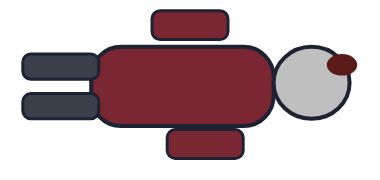
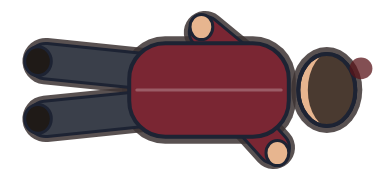
修正：屍體被地毯蓋住（平放物件畫的順序）；屍體改成粉筆輪廓＋常駐標籤；e2e 像素檢查屍體；手機提示卡不蓋 HUD；分局長畫面外標記不壓在他身上；總分上限 100；資產版本 v4

diff --git a/docs/app.js b/docs/app.js
@@ -1,7 +1,7 @@
 'use strict';
 /* 鑑識現場 — 前端（單機模式直接跑 engine.js；連線模式由伺服器權威） */
 let C = null; const GEN = window.FS_GEN, A = window.FS_ASSETS, ENG = window.FS;
-const VER = '3';
+const VER = '4';
 const $ = s => document.querySelector(s);
 const esc = s => String(s == null ? '' : s).replace(/[&<>"']/g, c => ({ '&': '&amp;', '<': '&lt;', '>': '&gt;', '"': '&quot;', "'": '&#39;' }[c]));
 const AGENT_COL = ['#2bb3a3', '#f2a541', '#8a6fd1', '#f2d045'];
@@ -379,17 +379,22 @@ function render(now) {
   ctx.setTransform(DPR, 0, 0, DPR, 0, 0); ctx.fillStyle = '#0b0f18'; ctx.fillRect(0, 0, VW, VH);
   if (!G.st || !C) return;
   const M = C.map; const hw = VW / 2 / Z, hh = VH / 2 / Z;
-  CAM.x = M.w < hw * 2 ? M.w / 2 : Math.max(hw - 40, Math.min(M.w - hw + 40, G.Me.x));
-  CAM.y = M.h < hh * 2 ? M.h / 2 + 60 : Math.max(hh + 100, Math.min(M.h - hh + 40, G.Me.y - 30));
+  CAM.x = M.w < hw * 2 ? M.w / 2 : Math.max(hw - 40, Math.min(M.w - hw + 40, G.camAt ? G.camAt.x : G.Me.x));
+  CAM.y = M.h < hh * 2 ? M.h / 2 + 60 : Math.max(hh + 100, Math.min(M.h - hh + 40, (G.camAt ? G.camAt.y : G.Me.y) - 30));
   const WT = [DPR * Z, 0, 0, DPR * Z, DPR * (VW / 2 - CAM.x * Z), DPR * (VH / 2 - CAM.y * Z)];
   ctx.setTransform(...WT);
   drawMap();
   // 屍體所在的房間：微微偏冷的紫紅色調（氣氛用，不洩漏答案）
   const br = roomOf(bodyRoom()); if (br) { ctx.fillStyle = 'rgba(70,20,70,.13)'; ctx.fillRect(br.x, br.y, br.w, br.h); }
   const near = G.nearId, lights = G.st.lights || {};
-  for (const o of C.objects) {
-    if (!o.flat || G.st.obj[o.id].gone) continue;
-    drawImg(o.img, o.x, o.y, o.w, o.h, { flat: true });
+  G.flatDrawn = [];
+  for (const o of ENG.flatOrder(C)) {
+    if (G.st.obj[o.id].gone || (o.id === 'body' && G.hideBody)) continue;
+    if (o.id === 'body') { // 屍體：先畫一圈淡淡的粉筆輪廓與陰影，讓它在任何地毯上都看得清楚
+      ctx.save(); ctx.fillStyle = 'rgba(10,12,20,.28)'; ctx.beginPath(); ctx.ellipse(o.x, o.y + 4, o.w * .56, o.h * .62, 0, 0, Math.PI * 2); ctx.fill();
+      ctx.setLineDash([9, 7]); ctx.strokeStyle = 'rgba(255,255,255,.85)'; ctx.lineWidth = 3; ctx.beginPath(); ctx.ellipse(o.x, o.y, o.w * .58, o.h * .66, 0, 0, Math.PI * 2); ctx.stroke(); ctx.restore();
+    }
+    drawImg(o.img, o.x, o.y, o.w, o.h, { flat: true }); G.flatDrawn.push(o.id);
   }
   const items = [];
   for (const o of C.objects) if (!o.flat && !G.st.obj[o.id].gone && !(o.id === 'chief' && G.st.boss && G.st.boss.mode !== 'away')) items.push({ kind: 'o', o, y: o.sw ? o.y - 60 : o.y });
@@ -477,6 +482,7 @@ function render(now) {
     ctx.fillStyle = '#1d2333'; ctx.font = 'bold 15px sans-serif'; ctx.textAlign = 'center'; ctx.textBaseline = 'middle'; ctx.fillText('!', o.x, yy + 1);
     if (a === 2 && !G.glinted.has(o.id) && Math.hypot(G.Me.x - o.x, G.Me.y - o.y) < 150) { G.glinted.add(o.id); Snd.glint(); }
   }
+  { const bo = ENG.objById(C, 'body'); if (bo && near !== 'body') label(bo.label || '屍體', bo.x, bo.y + bo.h / 2 + 18, '#ffd9d9'); }
   if (near && !near.startsWith('npc:') && near !== 'boss') { const o = ENG.objById(C, near); if (o) label(o.name, o.x, o.npc ? o.y - o.h - 12 : o.flat ? o.y + o.h / 2 + 16 : o.y + 18, '#bfefff'); }
   // 教學箭頭
   const tg = Tut.target(); if (tg) drawImg('ui_tut_arrow', tg.x, tg.y - 20 - Math.abs(Math.sin(t * 3)) * 12, 46, 46);
@@ -501,7 +507,7 @@ function render(now) {
   const B = G.st.boss; if (B && B.mode === 'in') marks.push([B.vx != null ? B.vx : B.x, B.vy != null ? B.vy : B.y, '👔', '#5a6a8a']);
   for (const n of G.st.npcs || []) if (n.mode === 'flee') marks.push([n.vx != null ? n.vx : n.x, n.vy != null ? n.vy : n.y, '🏃', '#b8574f']);
   if (tg) marks.push([tg.x, tg.y + 40, '⬇', '#1f8f82']);
-  for (const [x, y, ic, col] of marks) { let [px, py] = W2S(x, y - 40); if (px > 30 && px < VW - 30 && py > 60 && py < VH - 60) continue; px = Math.max(30, Math.min(VW - 30, px)); py = Math.max(90, Math.min(VH - 90, py)); ctx.globalAlpha = .85; ctx.fillStyle = col; ctx.beginPath(); ctx.arc(px, py, 19, 0, Math.PI * 2); ctx.fill(); ctx.globalAlpha = 1; ctx.font = '18px sans-serif'; ctx.textAlign = 'center'; ctx.textBaseline = 'middle'; ctx.fillText(ic, px, py + 1); }
+  for (const [x, y, ic, col] of marks) { let [px, py] = W2S(x, y - 40); const [fx, fy] = W2S(x, y), [hx, hy] = W2S(x, y - 130); if (fx > -20 && fx < VW + 20 && fy > -10 && hy < VH + 10) continue; px = Math.max(30, Math.min(VW - 30, px)); py = Math.max(90, Math.min(VH - 90, py)); ctx.globalAlpha = .85; ctx.fillStyle = col; ctx.beginPath(); ctx.arc(px, py, 19, 0, Math.PI * 2); ctx.fill(); ctx.globalAlpha = 1; ctx.font = '18px sans-serif'; ctx.textAlign = 'center'; ctx.textBaseline = 'middle'; ctx.fillText(ic, px, py + 1); }
 }
 // 分局長頭上的泡泡：要求圖示＋文字，下方一條慢慢變短的「耐心」條（不顯示秒數）
 function bossBubble(B, x, y, t) {
@@ -615,6 +621,17 @@ function enterGame(needGear) {
   closeOv(); refresh();
   if (G.st.phase === 'deduce') openDeduce(); else if (G.st.phase === 'result') openResult(); else if (needGear) openBriefing();
 }
+// 手機：結果卡／提示卡放在左上 HUD（和教學框）的下方，不要蓋住它們
+function layoutCards() {
+  const cards = $('#cards'); if (!cards) return;
+  const tut = $('#tut');
+  if (innerWidth > 640) { cards.style.top = ''; if (tut) tut.style.top = ''; return; }
+  const tl = document.querySelector('.tl'); if (tut && tl) tut.style.top = Math.round(tl.getBoundingClientRect().bottom + 6) + 'px';
+  let bottom = 0; for (const sel of ['.tl', '#tut']) { const e = document.querySelector(sel); if (e && e.offsetParent && !e.classList.contains('hidden')) bottom = Math.max(bottom, e.getBoundingClientRect().bottom); }
+  if (bottom) cards.style.top = Math.round(bottom + 8) + 'px';
+}
+setInterval(() => { try { layoutCards(); } catch (e) { } }, 250);
+addEventListener('resize', () => layoutCards());
 function refresh() {
   if (!G.st || !C) return;
   const p = meP(); if (!p) return;
@@ -833,7 +850,7 @@ function openDeduce() {
 }
 function openResult() {
   const R = G.st.result; if (!R) return;
-  const html = hdr('📁 結案報告', true) + `<div class="body res"><div class="rank">${R.rank}</div><p style="text-align:center;font-size:20px;margin:4px 0 12px">${R.total} 分</p>
+  const html = hdr('📁 結案報告', true) + `<div class="body res"><div class="rank">${R.rank}</div><p style="text-align:center;font-size:20px;margin:4px 0 12px">${R.total} / 100 分${R.bonus ? `<br><small style="color:var(--dim);font-size:13px">基本 ${R.base}＋獎勵 ${R.bonus}${R.pen ? ` ${R.pen}` : ''}${R.raw > 100 ? '（滿分 100）' : ''}</small>` : ''}</p>
     <table>${R.rows.map(r => `<tr><td>${r.label}</td><td class="${r.ok ? 'ok' : 'ng'}">${r.ok ? '✔' : '✖'} ${esc(r.pick)}${r.ok ? '' : `<br><small>正解：${esc(r.right)}</small>`}</td><td style="text-align:right">${r.pts}/${r.max}</td></tr>`).join('')}
     <tr><td>關鍵證據</td><td>${R.keys.map(k => `${esc(k.name)}（+${k.pts}）`).join('<br>') || '—'}</td><td style="text-align:right">${R.keyPts}/15</td></tr>
     ${R.timeB != null ? `<tr><td>結案速度</td><td>分局長耐心還剩 ${Math.round(G.st.patience)}%</td><td style="text-align:right">+${R.timeB || 0}/10</td></tr><tr><td>實驗室額度</td><td>花了 ${R.spent} 點（剩 ${G.st.budget}／${G.st.budgetMax}）</td><td style="text-align:right">+${R.budB || 0}/5</td></tr>` : ''}
@@ -1049,4 +1066,18 @@ const Tut = {
 };
 $('#tut').addEventListener('click', e => { if (e.target.closest('#tutSkip') && confirm('跳過新手教學？')) { Tut.stop(); backHome(); } if (e.target.closest('#tutHome')) { Tut.stop(); closeOv(); backHome(); } });
 loadAssets().then(() => { initHome(); requestAnimationFrame(loop); if (/autosolo/.test(location.hash)) startSolo(false); if (/tutorial/.test(location.hash)) Tut.start(); });
-window.__fs = { G, get C() { return C; }, ENG, doAct, openVan, openNote, openDeduce, refresh, Tut };
+// 測試用：屍體有沒有真的畫在畫面上（畫的順序＋實際像素：有屍體 vs 暫時拿掉屍體，畫面要明顯不同）
+async function bodyCheck() {
+  const o = ENG.objById(C, 'body'), fd = G.flatDrawn || [], i = fd.indexOf('body');
+  const covers = ENG.flatOrder(C).filter(q => q.id !== 'body' && q.w * q.h >= 15000 && Math.abs(q.x - o.x) < (q.w + o.w) / 2 && Math.abs(q.y - o.y) < (q.h + o.h) / 2).map(q => q.id);
+  const drawnOnTop = i >= 0 && covers.every(id => fd.indexOf(id) < i);
+  const frame = () => new Promise(r => requestAnimationFrame(() => requestAnimationFrame(r)));
+  const grab = () => { const [x0, y0] = W2S(o.x - o.w * .35, o.y - o.h * .25), [x1, y1] = W2S(o.x + o.w * .35, o.y + o.h * .25), k = cv.width / VW;
+    const sx = Math.max(0, Math.round(x0 * k)), sy = Math.max(0, Math.round(y0 * k)), sw = Math.min(Math.round((x1 - x0) * k), cv.width - sx), sh = Math.min(Math.round((y1 - y0) * k), cv.height - sy);
+    return sw > 0 && sh > 0 ? ctx.getImageData(sx, sy, sw, sh).data : null; };
+  await frame(); const A = grab(); if (!A) return { drawnOnTop, covers, onScreen: false, ratio: 0 };
+  G.hideBody = true; await frame(); const B = grab(); G.hideBody = false; await frame();
+  let diff = 0; for (let j = 0; j < A.length; j += 4) if (Math.abs(A[j] - B[j]) + Math.abs(A[j + 1] - B[j + 1]) + Math.abs(A[j + 2] - B[j + 2]) > 45) diff++;
+  return { drawnOnTop, covers, onScreen: true, ratio: +(diff / (A.length / 4)).toFixed(3) };
+}
+window.__fs = { G, get C() { return C; }, ENG, doAct, openVan, openNote, openDeduce, refresh, Tut, bodyCheck };

diff --git a/test/e2e.js b/test/e2e.js
@@ -22,6 +22,16 @@ async function closeWin(pg) { await pg.evaluate(() => { const b = document.query
 const tutStep = pg => pg.evaluate(() => __fs.G.tut ? __fs.G.tut.i : -1);
 async function waitStep(pg, n, ms = 8000) { const t0 = Date.now(); while (Date.now() - t0 < ms) { if ((await tutStep(pg)) >= n) return; await sleep(150); } throw new Error(`教學卡在第 ${await tutStep(pg)} 步（要到 ${n}）`); }
 const errors = [];
+// 屍體一定要真的畫在畫面上：畫的順序在地毯之後，而且畫面上那一塊有屍體的顏色
+async function checkBody(pg, tag, file) {
+  const o = await pg.evaluate(() => { const o = __fs.ENG.objById(__fs.C, 'body'); return { x: o.x, y: o.y, w: o.w, h: o.h }; });
+  let spot = null; for (const [dx, dy] of [[0, 140], [0, -130], [-220, 60], [220, 60], [0, 180], [-260, 0], [260, 0]]) if (await pg.evaluate(([x, y]) => __fs.ENG.walkable(__fs.C, x, y), [o.x + dx, o.y + dy])) { spot = [o.x + dx, o.y + dy]; break; }
+  if (spot) await tp(pg, spot[0], spot[1]); await sleep(600);
+  const r = await pg.evaluate(() => __fs.bodyCheck());
+  console.log(`屍體檢查［${tag}］：`, JSON.stringify(r));
+  if (!(r.drawnOnTop && r.onScreen && r.ratio > 0.3)) errors.push(`屍體沒有畫出來［${tag}］：${JSON.stringify(r)}`);
+  if (file) { await pg.screenshot({ path: '/workspace/' + file }); shots.push('/workspace/' + file); }
+}
 async function page(browser, opts) { const ctx = await browser.newContext(opts); const pg = await ctx.newPage(); pg.on('pageerror', e => errors.push(e.message)); pg.on('console', m => { if (m.type() === 'error' && !/ERR_|404|WebSocket/.test(m.text())) errors.push(m.text()); }); pg.on('dialog', d => d.accept()); return pg; }
 async function chase(pg, find, ms = 15000) { // 追上某個移動中的人（員警／分局長）
   const t0 = Date.now(); while (Date.now() - t0 < ms) { const p = await pg.evaluate(find); if (p) await tp(pg, p.x, p.y + 6); else await sleep(200); if (await pg.evaluate(() => 0)) break; await sleep(150); if (!(await pg.evaluate(find))) return true; } return false;
@@ -50,6 +60,7 @@ async function deduceAndSubmit(pg, name) {
   for (const t of ['camera', 'luminol', 'prints']) await tg.click(`[data-tool="${t}"]`);
   await shot(tg, 'tut_3_gear');
   await tg.click('#gearOk'); await waitStep(tg, 3); await closeWin(tg);
+  await checkBody(tg, '教學・桌機', 'forensic_v3_body_tutorial.png');
   await toObj(tg, 'body'); await shot(tg, 'tut_4_highlight'); await act(tg, '近拍傷口'); await waitStep(tg, 4); await sleep(300);
   await shot(tg, 'tut_5_result_card');
   await toObj(tg, 'floor_living'); await act(tg, '噴灑魯米諾'); await waitStep(tg, 5);
@@ -118,6 +129,13 @@ async function deduceAndSubmit(pg, name) {
   await pg.click('#bClose'); await sleep(800); await deduceAndSubmit(pg, null);
   await shot(pg, 'result');
   const res = await pg.evaluate(() => __fs.G.st.result); console.log('正式案件：', res.rank, res.total, 'time+', res.timeB, 'budget+', res.budB);
+  /* ---------- 2b. 屍體在每個可能的房間都看得到（客廳／書房＝偽裝意外移屍／廚房） ---------- */
+  for (const [seed, room] of [[1, '客廳'], [4, '書房（偽裝意外）'], [5, '廚房']]) {
+    const bp = await page(br, { viewport: { width: 1280, height: 800 } });
+    await bp.goto(BASE + '?seed=' + seed); await sleep(900); await bp.fill('#name', '百九'); await bp.click('#bSolo'); await sleep(700); await bp.click('#win footer [data-close]').catch(() => { }); await sleep(300);
+    await checkBody(bp, '正式案件・' + room, seed === 4 ? 'forensic_v3_body_case.png' : `forensic_v3_body_case_seed${seed}.png`);
+    await bp.context().close();
+  }
   /* ---------- 3. 連線：燈的開關同步 ---------- */
   const p1 = await page(br, { viewport: { width: 1280, height: 800 } }), p2 = await page(br, { viewport: { width: 1280, height: 800 } });
   await p1.goto(BASE); await sleep(800); await p1.fill('#name', '百九'); await p1.click('#bCreate');
@@ -127,6 +145,13 @@ async function deduceAndSubmit(pg, name) {
   await shot(p1, 'room');
   await p1.click('#rmStart'); await sleep(1500);
   for (const p of [p1, p2]) await p.click('#win footer [data-close]').catch(() => { });
+  { const o = await p2.evaluate(() => { const o = __fs.ENG.objById(__fs.C, 'body'); return { x: o.x, y: o.y }; }); await p2.evaluate(() => { __fs.G.Me.x = 400; __fs.G.Me.y = 700; }); await sleep(300); }
+  { // 連線時鏡頭跟著自己，直接看屍體那一塊：先把鏡頭（本機畫面）移過去檢查像素
+    const r = await p1.evaluate(async () => { const o = __fs.ENG.objById(__fs.C, 'body'); const G = __fs.G; G.camAt = { x: o.x, y: o.y + 60 }; await new Promise(r => setTimeout(r, 700)); const res = __fs.bodyCheck(); return res; });
+    await p1.screenshot({ path: '/workspace/forensic_v3_body_online.png' }); shots.push('/workspace/forensic_v3_body_online.png'); await p1.evaluate(() => { __fs.G.camAt = null; });
+    console.log('屍體檢查［連線］：', JSON.stringify(r)); if (!(r.drawnOnTop && r.onScreen && r.ratio > 0.3)) errors.push('連線時屍體沒有畫出來：' + JSON.stringify(r));
+    await sleep(800);
+  }
   for (const [x, y] of [[400, 690], [440, 640], [480, 610], [540, 600], [600, 590], [660, 590], [700, 580], [740, 540], [760, 500], [760, 480]]) { await p2.evaluate(([x, y]) => { const G = __fs.G; G.Me.x = x; G.Me.y = y; G.path = null; }, [x, y]); await sleep(170); }
   for (const [x, y] of [[400, 700], [440, 650], [480, 620], [540, 610], [600, 610], [640, 640]]) { await p1.evaluate(([x, y]) => { const G = __fs.G; G.Me.x = x; G.Me.y = y; G.path = null; }, [x, y]); await sleep(170); }
   await sleep(400); await p2.evaluate(() => __fs.doAct({ type: 'light', obj: 'sw_living' })); await sleep(900);
@@ -142,6 +167,7 @@ async function deduceAndSubmit(pg, name) {
   await ip.tap('#bTut'); await sleep(900); await shot(ip, 'iphone_tutorial');
   await tp(ip, 470, 600); await waitStep(ip, 1); await ip.evaluate(() => __fs.openVan()); await waitStep(ip, 2);
   for (const t of ['camera', 'luminol', 'prints']) await ip.tap(`[data-tool="${t}"]`); await ip.tap('#gearOk'); await waitStep(ip, 3); await closeWin(ip);
+  await checkBody(ip, '教學・iPhone', 'forensic_v3_iphone_body.png');
   await toObj(ip, 'body'); await act(ip, '近拍傷口'); await sleep(300); await shot(ip, 'iphone_result_card');
   await toObj(ip, 'floor_living'); await act(ip, '噴灑魯米諾'); await toObj(ip, 'sw_living'); await ip.tap('#act [data-k="light"]'); await sleep(500); await toObj(ip, 'floor_living'); await sleep(300);
   await shot(ip, 'dark_6_iphone');

diff --git a/docs/assets.js b/docs/assets.js
@@ -291,7 +291,25 @@ const D = {
   prop_coffee_table: (c, w, h) => { shadowE(c, w, h, .46); box(c, w * .04, h * .1, w * .92, h * .6, h * .3, '#6b4426'); rr(c, w * .1, h * .66, w * .06, h * .28, 3, '#4a2e18', K.ink, 3); rr(c, w * .84, h * .66, w * .06, h * .28, 3, '#4a2e18', K.ink, 3); },
   prop_wine_glasses: (c, w, h) => { for (const x of [.3, .7]) { pg(c, [[w * (x - .16), h * .1], [w * (x + .16), h * .1], [w * (x + .1), h * .48], [w * (x - .1), h * .48]], 'rgba(220,235,245,.8)', K.ink, 3); c.fillStyle = '#7a1424'; c.fillRect(w * (x - .1), h * .34, w * .2, h * .12); c.fillStyle = K.ink; c.fillRect(w * x - 2, h * .48, 4, h * .32); el(c, w * x, h * .84, w * .14, h * .05, '#dfe8ef', K.ink, 2); } },
   prop_wine_bottle: (c, w, h) => { rr(c, w * .38, h * .02, w * .24, h * .3, 4, '#2c4a2a', K.ink, 3); rr(c, w * .12, h * .28, w * .76, h * .68, 12, '#24402a', K.ink, 3); rr(c, w * .2, h * .5, w * .6, h * .22, 3, '#efe6d2'); },
-  prop_body: (c, w, h) => { c.setLineDash([10, 8]); rr(c, 6, 6, w - 12, h - 12, 40, null, 'rgba(255,255,255,.7)', 4); c.setLineDash([]); rr(c, w * .24, h * .26, w * .48, h * .44, 30, '#7a2633', K.ink, 4); el(c, w * .82, h * .46, w * .1, h * .2, '#bfbfbf', K.ink, 4); rr(c, w * .06, h * .3, w * .2, h * .14, 8, '#3a3f4a', K.ink, 3); rr(c, w * .06, h * .52, w * .2, h * .14, 8, '#3a3f4a', K.ink, 3); rr(c, w * .4, h * .06, w * .2, h * .16, 8, '#7a2633', K.ink, 3); rr(c, w * .44, h * .72, w * .2, h * .16, 8, '#7a2633', K.ink, 3); el(c, w * .9, h * .36, w * .04, h * .06, '#5a1a1a'); },
+  prop_body: (c, w, h) => { // 俯視：死者趴在地上（頭朝右），外面一圈白色粉筆輪廓；卡通、不血腥
+    const X = v => v * w, Y = v => v * h, ch = 'rgba(255,255,255,.95)';
+    const limb = (x1, y1, x2, y2, t, col) => { c.lineCap = 'round'; c.strokeStyle = K.ink; c.lineWidth = Y(t) + 6; c.beginPath(); c.moveTo(X(x1), Y(y1)); c.lineTo(X(x2), Y(y2)); c.stroke(); c.strokeStyle = col; c.lineWidth = Y(t); c.stroke(); };
+    // 粉筆輪廓：身體外擴一圈的白色剪影（半透明），再加一圈虛線
+    const halo = (pad, col) => { c.lineCap = 'round'; c.strokeStyle = col; c.fillStyle = col;
+      for (const [x1, y1, x2, y2, t] of [[.12, .34, .4, .4, .18], [.12, .66, .4, .6, .18], [.62, .32, .54, .18, .16], [.66, .68, .72, .82, .16]]) { c.lineWidth = Y(t) + pad * 2; c.beginPath(); c.moveTo(X(x1), Y(y1)); c.lineTo(X(x2), Y(y2)); c.stroke(); }
+      rr(c, X(.34) - pad, Y(.24) - pad, X(.42) + pad * 2, Y(.52) + pad * 2, Y(.2) + pad, col); el(c, X(.86), Y(.5), X(.075) + pad, Y(.2) + pad, col); };
+    halo(12, 'rgba(255,255,255,.92)'); halo(7, 'rgba(60,50,50,.85)');
+    // 身體
+    limb(.12, .34, .4, .4, .18, '#3a3f4a'); limb(.12, .66, .4, .6, .18, '#3a3f4a');           // 雙腿（深色長褲）
+    el(c, X(.1), Y(.34), X(.035), Y(.08), '#1f1a17', K.ink, 3); el(c, X(.1), Y(.66), X(.035), Y(.08), '#1f1a17', K.ink, 3); // 鞋
+    limb(.62, .32, .54, .18, .16, '#7a2633'); limb(.66, .68, .72, .82, .16, '#7a2633');    // 雙臂（酒紅毛衣）
+    el(c, X(.53), Y(.15), X(.03), Y(.07), '#e7b58f', K.ink, 3); el(c, X(.73), Y(.85), X(.03), Y(.07), '#e7b58f', K.ink, 3); // 手
+    rr(c, X(.34), Y(.24), X(.42), Y(.52), Y(.2), '#7a2633', K.ink, 4);                       // 軀幹
+    c.strokeStyle = 'rgba(255,255,255,.25)'; c.lineWidth = 3; c.beginPath(); c.moveTo(X(.36), Y(.5)); c.lineTo(X(.74), Y(.5)); c.stroke();
+    el(c, X(.86), Y(.5), X(.075), Y(.2), '#e7b58f', K.ink, 4);                                // 頭
+    c.save(); c.beginPath(); c.ellipse(X(.86), Y(.5), X(.075), Y(.2), 0, 0, Math.PI * 2); c.clip(); el(c, X(.88), Y(.5), X(.07), Y(.22), '#4a3a30'); c.restore(); el(c, X(.86), Y(.5), X(.075), Y(.2), null, K.ink, 4); // 頭髮（趴著看到後腦）
+    el(c, X(.95), Y(.38), X(.03), Y(.06), 'rgba(90,20,26,.75)');                             // 頭旁一小塊深色痕跡
+  },
   prop_fireplace: (c, w, h) => { shadowE(c, w, h, .46); rr(c, w * .02, h * .06, w * .96, h * .2, 18, '#f3f1ec', K.ink, 4); rr(c, w * .08, h * .22, w * .84, h * .72, 14, '#e8e5de', K.ink, 4); rr(c, w * .26, h * .4, w * .48, h * .54, 40, '#2a2a2a', K.ink, 4); el(c, w * .14, h * .9, w * .1, h * .06, '#8a1f1f'); },
   prop_poker: (c, w, h) => { shadowE(c, w, h, .4); rr(c, w * .2, h * .84, w * .6, h * .1, 4, '#333', K.ink, 3); for (const x of [.32, .5, .68]) { c.strokeStyle = '#2a2a2a'; c.lineWidth = 6; c.beginPath(); c.moveTo(w * x, h * .86); c.lineTo(w * x, h * .08); c.stroke(); } el(c, w * .5, h * .06, w * .12, h * .04, '#c8a050', K.ink, 2); },
   prop_desk: (c, w, h) => { shadowE(c, w, h, .46); box(c, w * .04, h * .2, w * .92, h * .72, h * .26, '#7a3b24'); rr(c, w * .55, h * .58, w * .3, h * .12, 3, '#5f2c19', K.ink, 3); rr(c, w * .14, h * .06, w * .24, h * .2, 3, '#f3efe3', K.ink, 3); rr(c, w * .42, h * .1, w * .2, h * .16, 3, '#2d4a6b', K.ink, 3); el(c, w * .82, h * .1, w * .07, h * .08, K.amber, K.ink, 3); },

diff --git a/test/engine.test.js b/test/engine.test.js
@@ -200,4 +200,23 @@ console.log('最省路線最多花的實驗室額度：', maxCost, '手法分布
   ok(d.methods.length === 1 && d.methods[0] === C.method && d.suspects.length === 1 && d.suspects[0] === C.culprit && d.weapon === C.weapon && d.location === C.location, '教學步驟的證據 → 推理完整且正確');
   ok(C.labSec <= 10 && st.patience === 100, '教學：實驗室很快、分局長不會沒耐心');
 }
+// 10. 屍體一定畫在地毯上面（所有房間、所有手法，包括偽裝意外移屍到書房）
+{
+  let bad = 0, rooms = new Set();
+  for (const diff of ['easy', 'normal', 'hard', 'tut']) for (let seed = 1; seed <= (diff === 'tut' ? 10 : 300); seed++) {
+    const C = GEN.generate(seed, diff), order = FS.flatOrder(C), b = C.objects.find(o => o.id === 'body'); rooms.add(b.room);
+    const bi = order.indexOf(b);
+    if (order.some((o, i) => o.w * o.h >= 15000 && i > bi) || order.some((o, i) => o !== b && o.w * o.h < 15000 && i < bi) || !b.label || b.w < 150) bad++;
+    if (!FS.walkable(C, b.x, b.y + b.h / 2 + 30) && !FS.walkable(C, b.x - b.w / 2 - 30, b.y) && !FS.walkable(C, b.x + b.w / 2 + 30, b.y)) bad++;
+  }
+  ok(bad === 0, `屍體畫在所有地毯之上、小證物之下、有「屍體（死者）」標籤、走得到旁邊（出現在 ${[...rooms].join('／')}）`);
+}
+// 11. 總分最多 100（獎勵另外顯示）
+{
+  const C = GEN.generate(5, 'easy'), st = FS.newGame(C, [{ pid: 0, name: 'A', ci: 0 }], { pressure: false }); st.phase = 'deduce';
+  for (const [f, v] of [['culprit', C.culprit], ['method', C.method], ['weapon', C.weapon], ['location', C.location]]) FS.act(C, st, 0, { type: 'draft', field: f, v });
+  st.found = C.objects.flatMap(o => (o.acts || []).flatMap(a => a.ev || [])).map(id => ({ id })); FS.act(C, st, 0, { type: 'draft', field: 'keys', v: C.keyEv || st.found.slice(0, 3).map(f => f.id) });
+  FS.act(C, st, 0, { type: 'submit' }); const R = st.result;
+  ok(R.total <= 100 && R.total === Math.min(100, R.base + R.bonus + R.pen) && R.bonus === R.timeB + R.budB, `總分上限 100（基本 ${R.base}＋獎勵 ${R.bonus} → ${R.total}）`);
+}
 console.log(fail ? `\n${fail} 項失敗（${okN} 項通過）` : `\n全部通過（${okN} 項）`); process.exit(fail ? 1 : 0);

diff --git a/docs/engine.js b/docs/engine.js
@@ -432,10 +432,15 @@ function grade(C, st) {
   const pen = st.fled ? -10 : 0;
   const base = rows.reduce((t, r) => t + r.pts, 0) + Math.min(kp, 15);
   const timeB = base >= 50 ? Math.round((st.patience || 0) / 10) : 0, budB = base >= 50 ? Math.round(5 * (st.budget || 0) / Math.max(1, st.budgetMax || 1)) : 0;   // 答得夠好才有效率獎勵
-  const total = Math.max(0, base + timeB + budB + pen);
+  const bonus = timeB + budB, raw = base + bonus + pen, total = Math.max(0, Math.min(100, raw));
   const rank = total >= 100 ? 'S' : total >= 82 ? 'A' : total >= 60 ? 'B' : total >= 40 ? 'C' : 'D';
-  return { rows, keys, keyPts: Math.min(kp, 15), timeB, budB, pen, fled: st.fled, total, rank, found: st.found.length, spent: st.spent, clock: Math.round(st.clock), ms: Object.assign({}, st.ms), bossOk: st.bossOk || 0, bossFail: st.bossFail || 0 };
+  return { rows, keys, keyPts: Math.min(kp, 15), timeB, budB, pen, base, bonus, raw, fled: st.fled, total, rank, found: st.found.length, spent: st.spent, clock: Math.round(st.clock), ms: Object.assign({}, st.ms), bossOk: st.bossOk || 0, bossFail: st.bossFail || 0 };
 }
-const FS = { SPEED, NEVER, isLit, progress, bossDone, demandText, walkable, moveTo, roomAt, near, nearVan, newGame, act, options, leave, move, tick, grade, deduce, hasEv, objById, findPath, walkRects, culpritHeat };
+// 平放在地上的物件畫的順序：大塊地毯／地板先畫 → 屍體（壓在地毯上面）→ 小證物（手機、相框等，放在屍體旁也看得到）
+function flatOrder(C) {
+  const rank = o => o.id === 'body' ? 1 : (o.w * o.h >= 15000 ? 0 : 2);
+  return C.objects.filter(o => o.flat).map((o, i) => ({ o, i })).sort((a, b) => rank(a.o) - rank(b.o) || (rank(a.o) === 0 ? b.o.w * b.o.h - a.o.w * a.o.h : 0) || a.i - b.i).map(x => x.o);
+}
+const FS = { SPEED, flatOrder, NEVER, isLit, progress, bossDone, demandText, walkable, moveTo, roomAt, near, nearVan, newGame, act, options, leave, move, tick, grade, deduce, hasEv, objById, findPath, walkRects, culpritHeat };
 if (typeof module !== 'undefined' && module.exports) module.exports = FS; else root.FS = FS;
 })(typeof self !== 'undefined' ? self : this);

diff --git a/docs/casegen.js b/docs/casegen.js
@@ -209,7 +209,7 @@ function generate(seed, diff) {
     ev('E_nails_none', '指甲縫乾淨', 'ev_photo', '指甲縫裡沒有皮屑，死者沒有掙扎過。', {});
     bodyActs.push({ id: 'nails', tool: 'camera', ap: 1, label: '檢查指甲縫', ev: ['E_nails_none'] });
   }
-  O.push({ id: 'body', room: bodyRoom, x: B.x, y: B.y, img: 'prop_body', w: 190, h: 90, name: '死者・林志遠', flat: true, r: 120, desc: '死者倒在地上，已經沒有生命跡象。', acts: bodyActs });
+  O.push({ id: 'body', room: bodyRoom, x: B.x, y: B.y, img: 'prop_body', w: 210, h: 104, name: '屍體（死者・林志遠）', flat: true, label: '屍體（死者）', r: 120, desc: '死者倒在地上，已經沒有生命跡象。', acts: bodyActs });
   // 地板（每個房間一塊）
   for (const k of BASE.rooms3) {
     const F = FLOOR[k]; const isCrime = k === crime && method.blood;

diff --git a/docs/index.html b/docs/index.html
@@ -200,6 +200,7 @@ body.tutOn #cards{top:calc(170px + env(safe-area-inset-top))}
   .pbar{width:120px}
   .obj{font-size:12px}
   #tut{top:calc(112px + env(safe-area-inset-top));padding:8px}
+  body.tutOn #obj{display:none}
   #tut img{width:40px;height:40px}
   #tut .tx{font-size:13px}
   body.tutOn #cards{top:calc(250px + env(safe-area-inset-top))}
@@ -282,9 +283,9 @@ body.tutOn #cards{top:calc(170px + env(safe-area-inset-top))}
 
 <div id="ov" class="ov hidden"><div class="win" id="win"></div></div>
 
-<script src="casegen.js?v=3"></script>
-<script src="engine.js?v=3"></script>
-<script src="assets.js?v=3"></script>
-<script src="app.js?v=3"></script>
+<script src="casegen.js?v=4"></script>
+<script src="engine.js?v=4"></script>
+<script src="assets.js?v=4"></script>
+<script src="app.js?v=4"></script>
 </body>
 </html>
